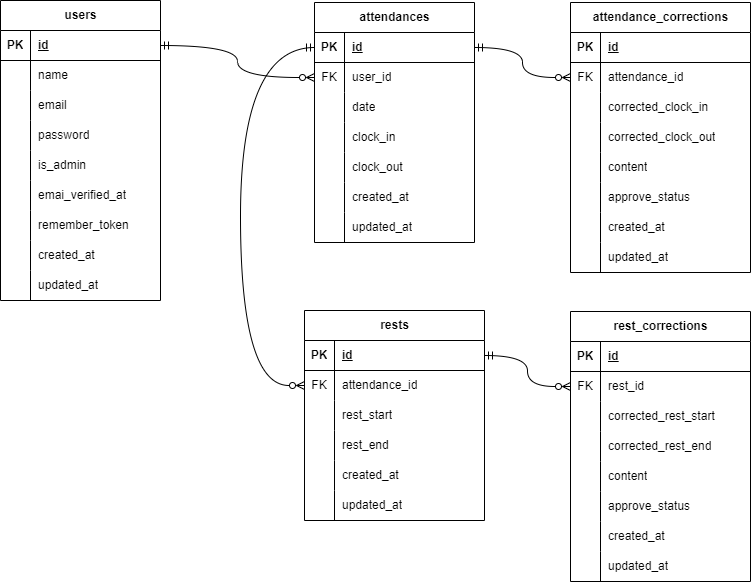
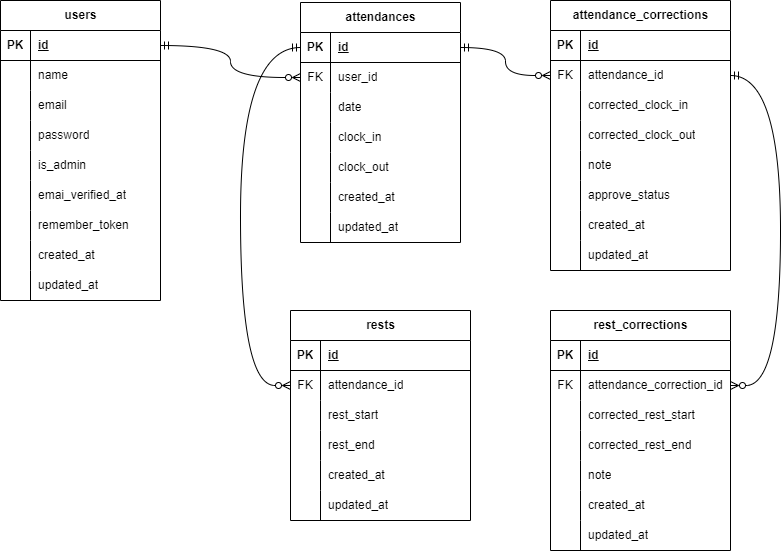
rest_correctionsカラムの変更

diff --git a/src/app/Http/Controllers/AdminController.php b/src/app/Http/Controllers/AdminController.php
@@ -19,11 +19,11 @@ class AdminController extends Controller
         //「選ばれたある特定の一日」の「全員の勤怠情報」が必要
 
         //日付のリクエストがあったらその日、なければnowを表示にしたい（？）
-        $date = Carbon::today()->isoFormat('Y-M-D');
-        $formattedDate = Carbon::now()->isoFormat('Y年M月D日');
+        $date = Carbon::today();
+        $titleDate = Carbon::today()->isoFormat('Y年M月D日');
         $attendances = Attendance::whereDate('date', $date)->get();
 
-        return view('admin.attendance.list_all', compact('attendances', 'date'));
+        return view('admin.attendance.list_all', compact('attendances', 'titleDate'));
     }
 
     public function showStaffList()

diff --git a/src/database/migrations/2025_06_07_041122_create_rest_corrections_table.php b/src/database/migrations/2025_06_07_041122_create_rest_corrections_table.php
@@ -16,11 +16,10 @@ class CreateRestCorrectionsTable extends Migration
     {
         Schema::create('rest_corrections', function (Blueprint $table) {
             $table->id();
-            $table->foreignId('rest_id')->constrained()->cascadeOnDelete();
+            $table->foreignId('attendance_correction_id')->constrained()->cascadeOnDelete();
             $table->time('corrected_rest_start');
             $table->time('corrected_rest_end');
             $table->string('note');
-            $table->string('approve_status')->default('pending'); // pending or completed
             $table->timestamps();
         });
     }

diff --git a/src/resources/views/admin/attendance/list_all.blade.php b/src/resources/views/admin/attendance/list_all.blade.php
@@ -7,7 +7,7 @@
 @section('content')
 <div class="list__content">
     <div class="list__title">
-        <h3>20XX年〇月◇日の勤怠</h3>
+        <h3>{{ $titleDate }}の勤怠</h3>
     </div>
     <div class="list__guide-area">
         <div class="list__guide-link">←前日</div>

diff --git a/src/app/Models/RestCorrection.php b/src/app/Models/RestCorrection.php
@@ -11,7 +11,7 @@ class RestCorrection extends Model
 
     public function rest()
     {
-        return $this->belongsTo(Rest::class);
+        return $this->belongsTo(AttendanceCorrection::class);
     }
 
     protected $fillable = [
